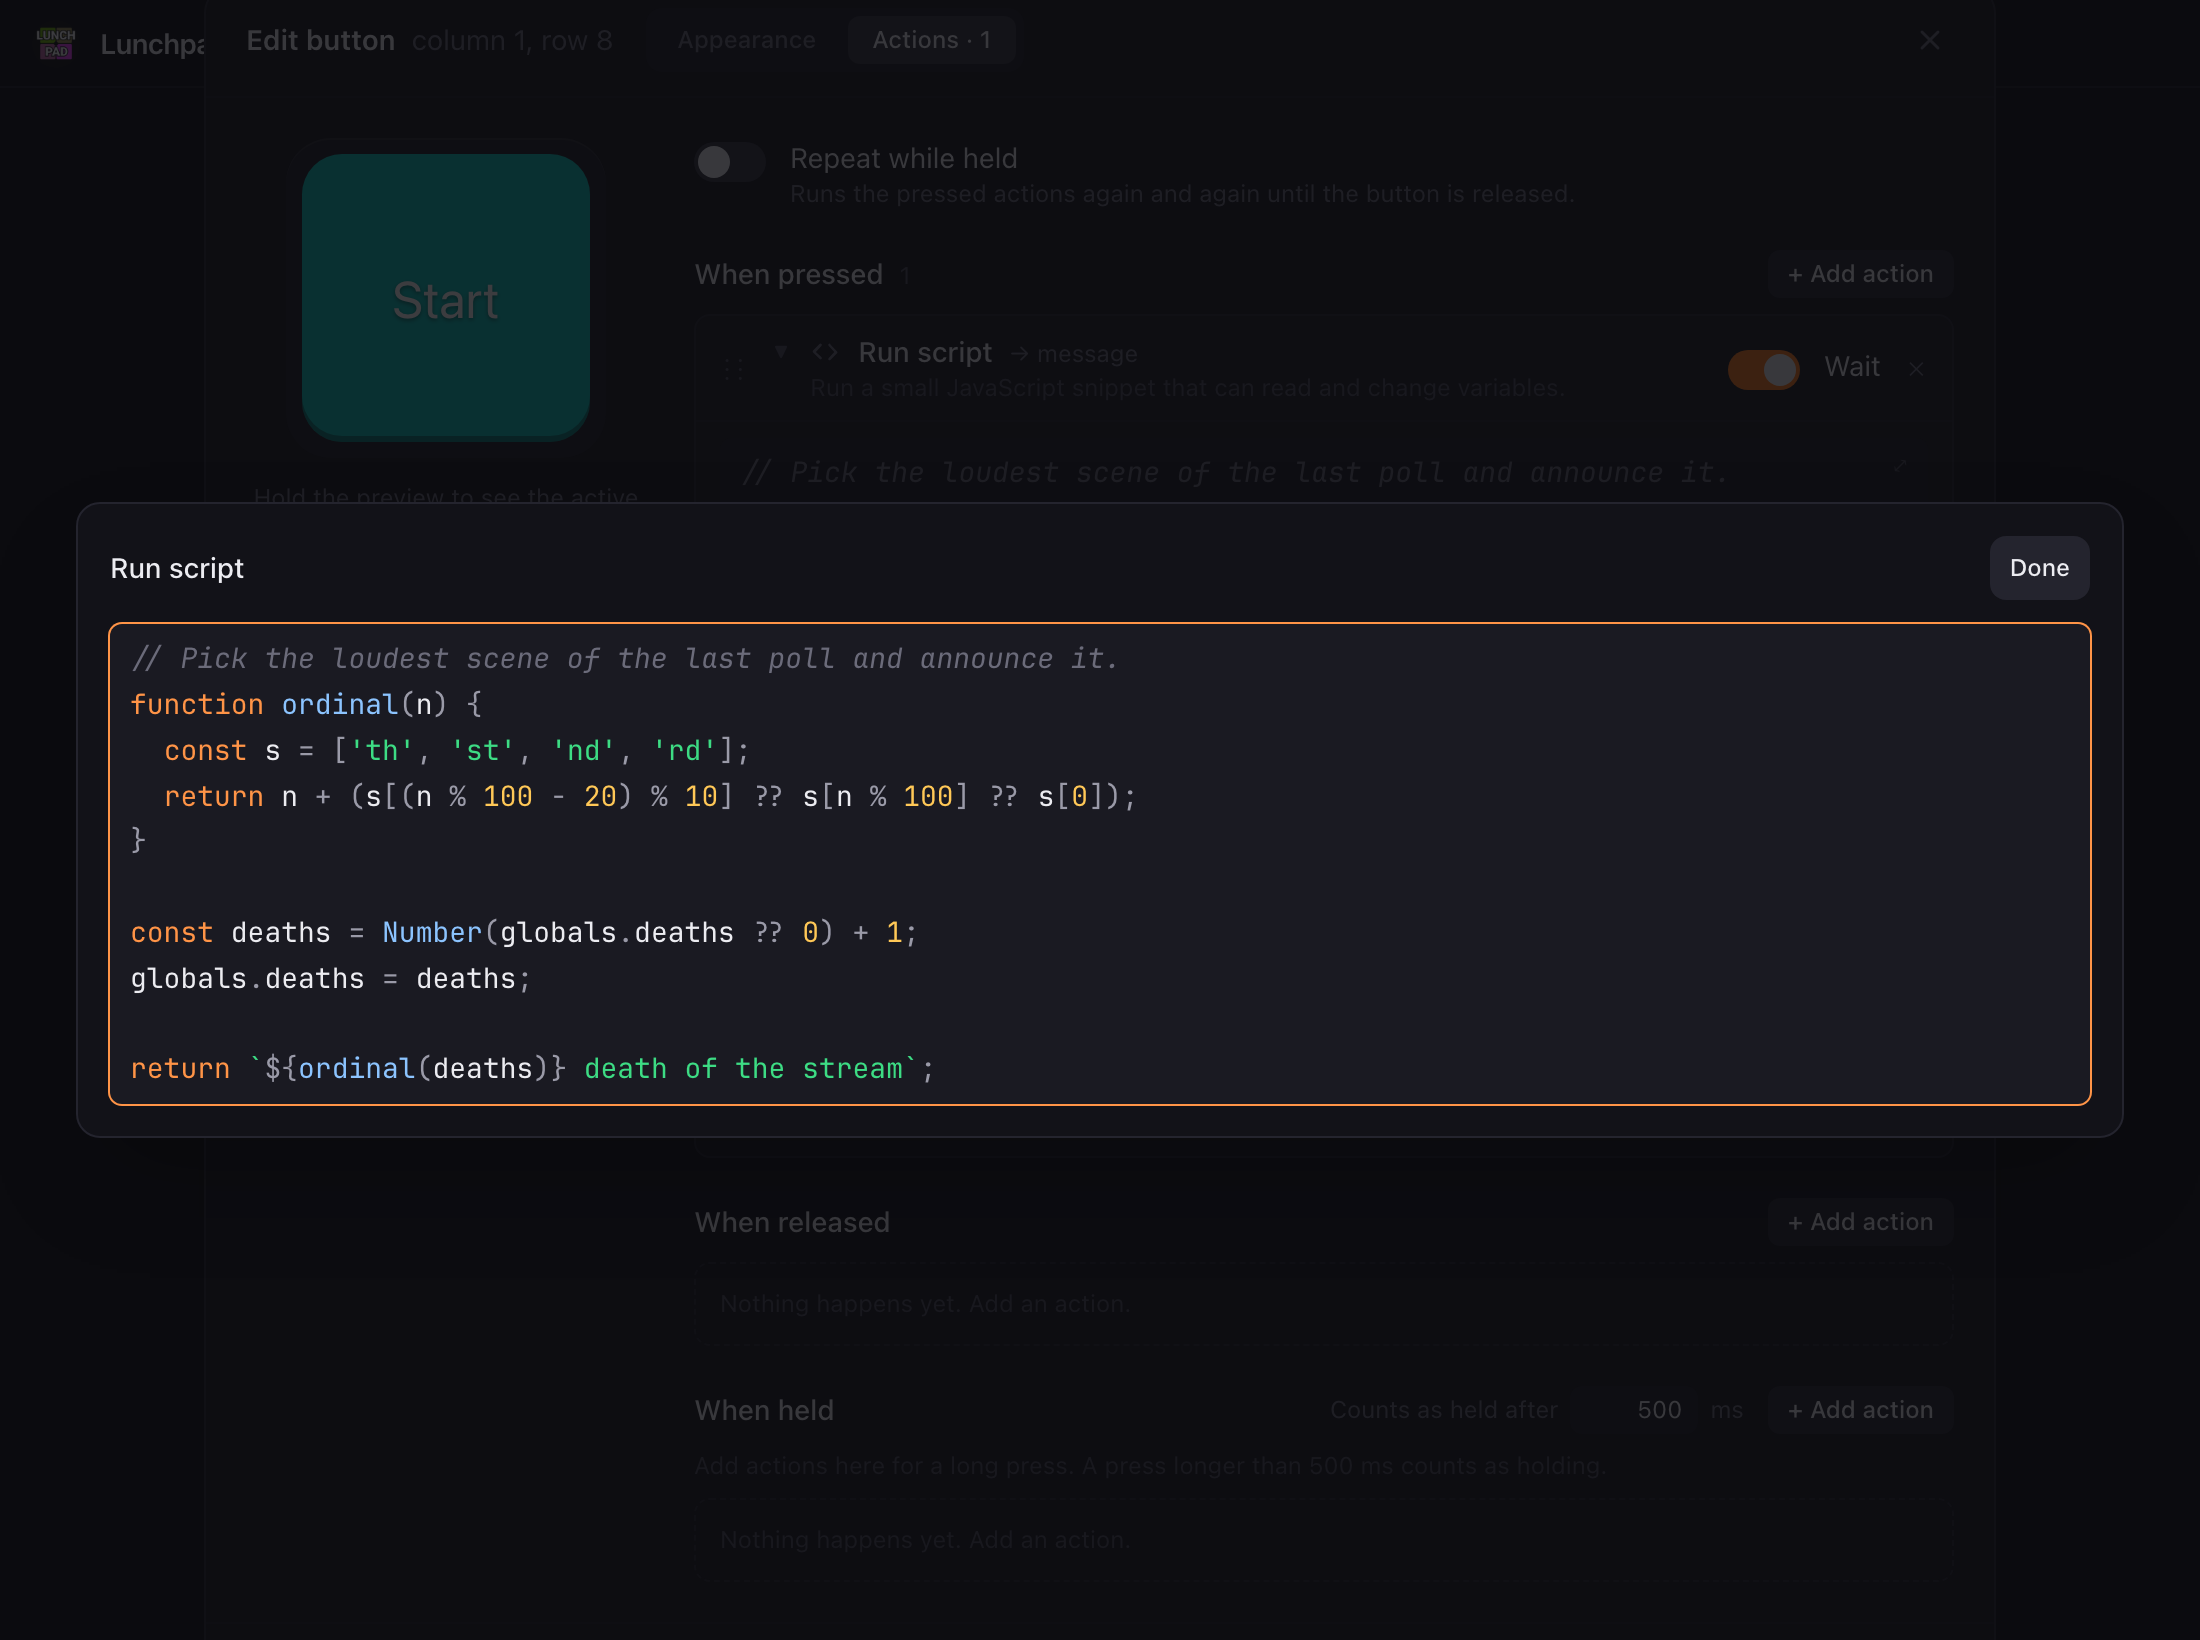
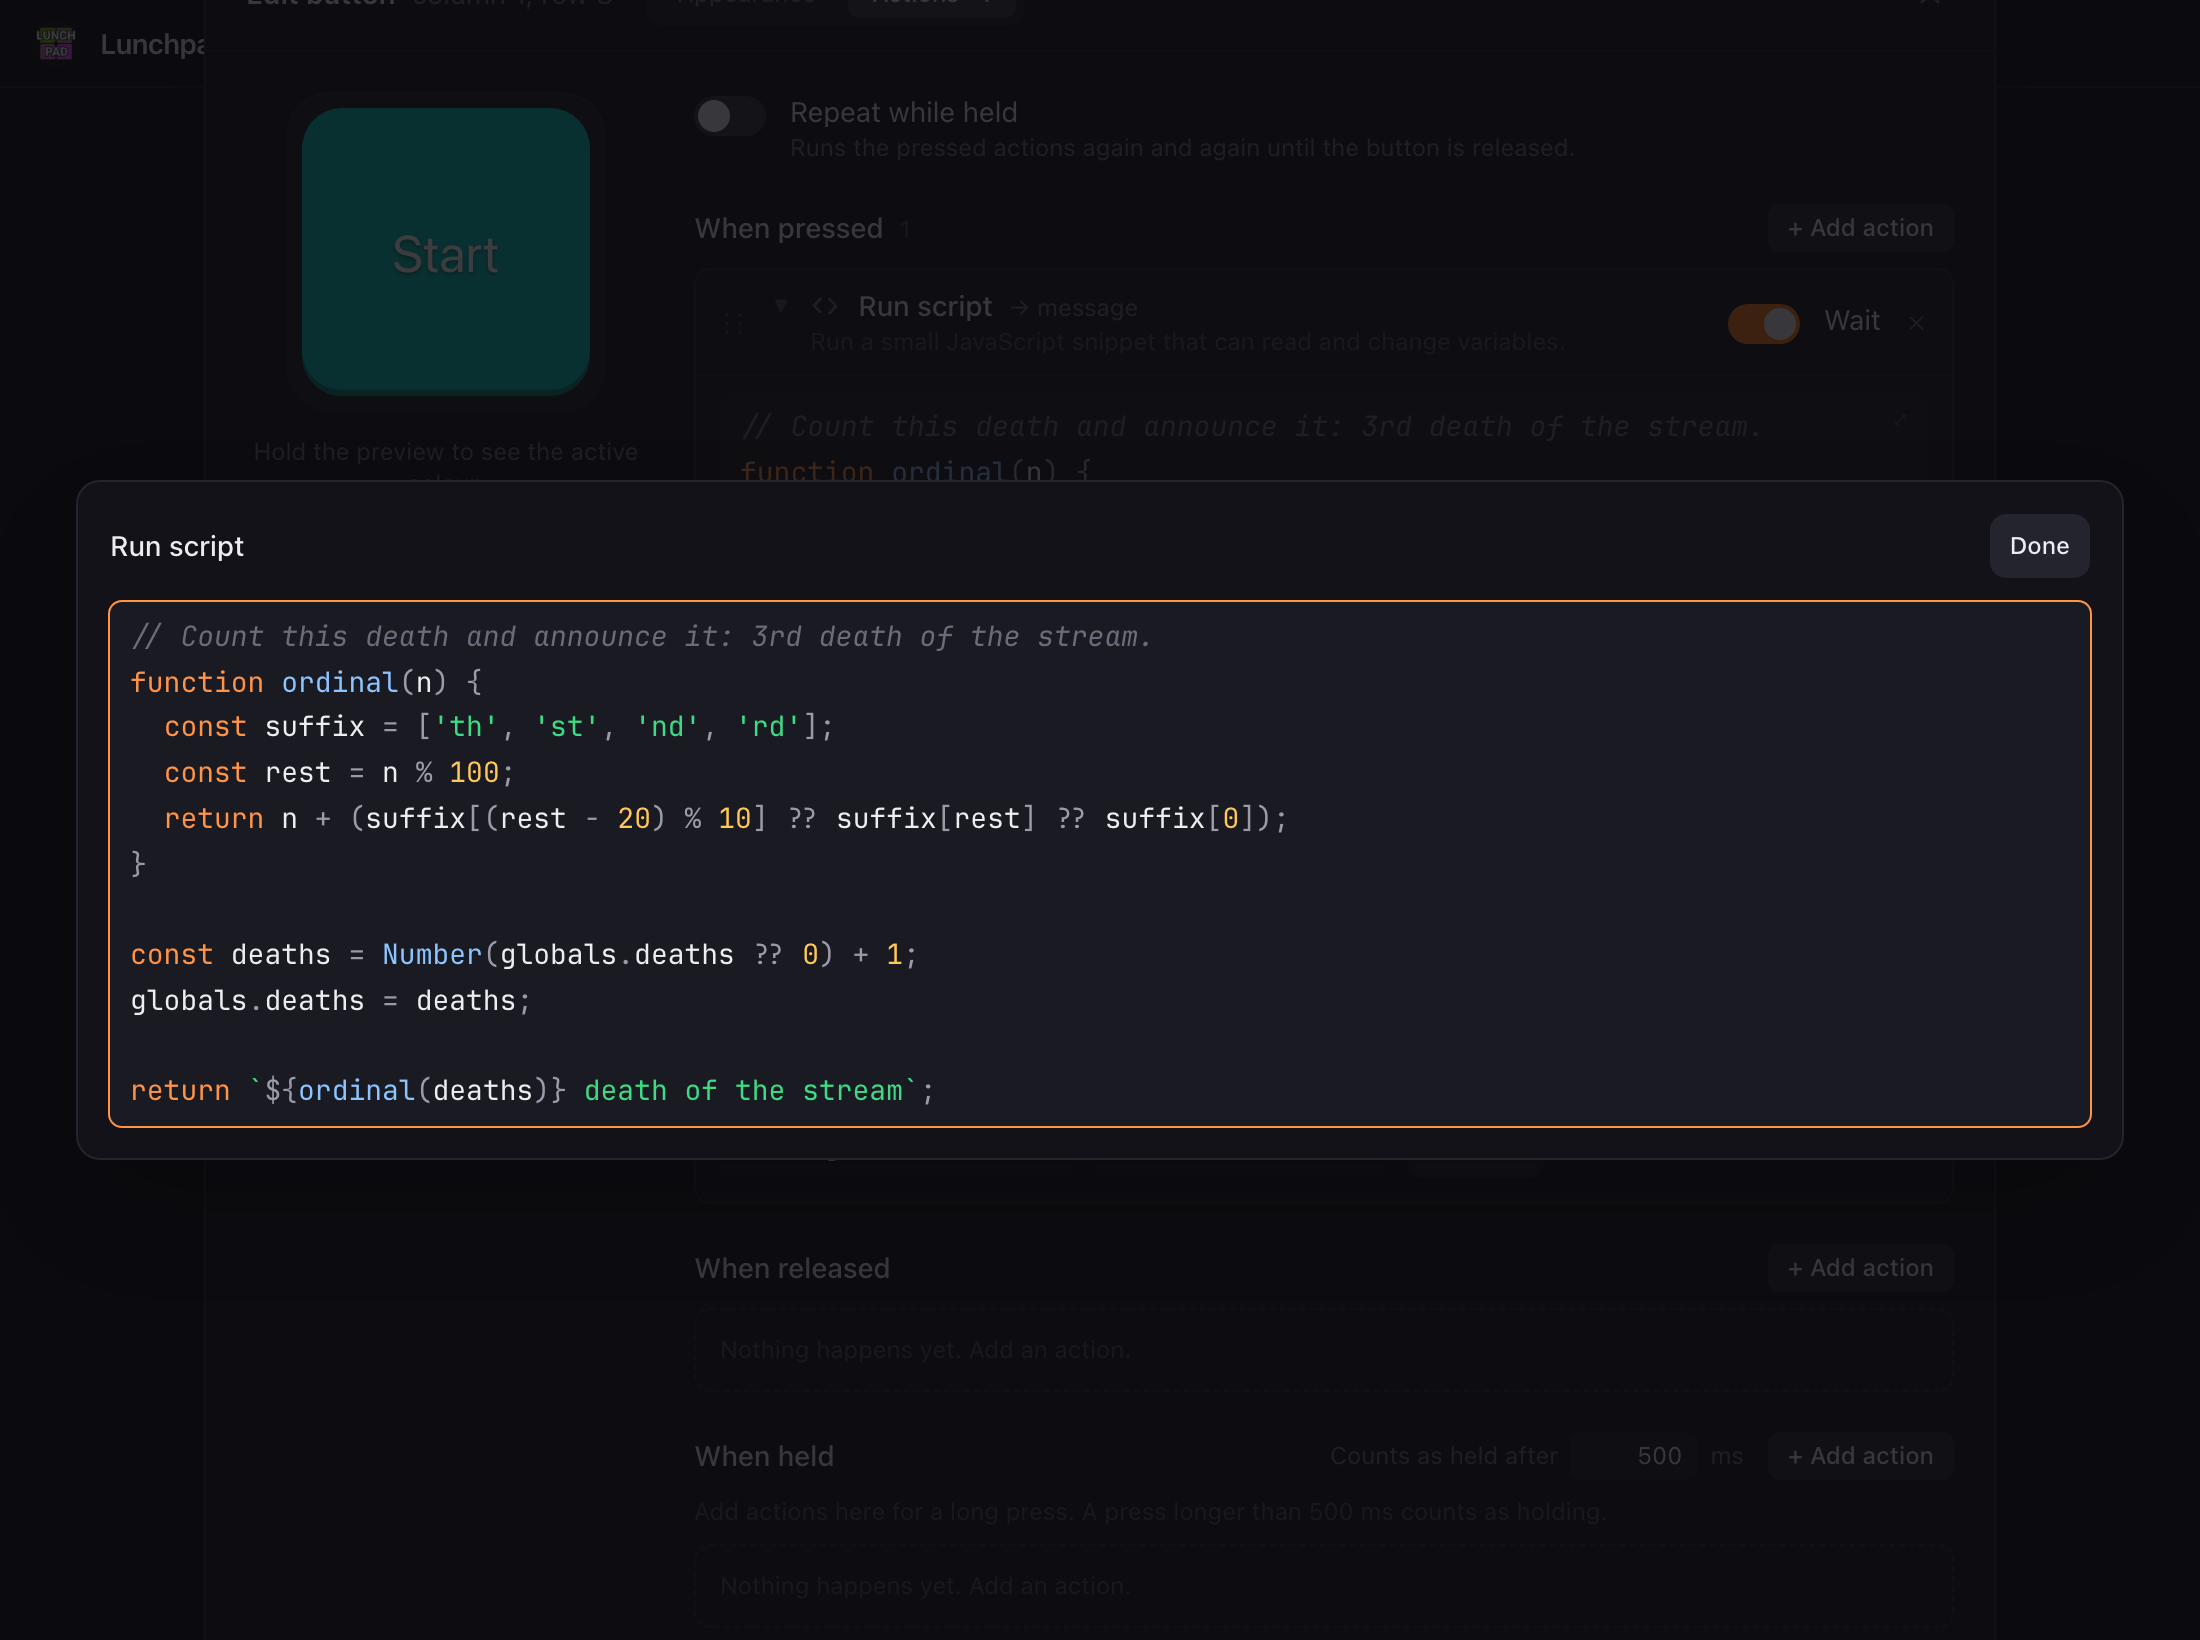
Make the script in the editor screenshot say what it does
The snippet carried a comment about picking a scene out of a poll over code that
counts deaths, which reads as nonsense on the Run script page. It now counts the
death it announces, and shows what the page explains: a helper that returns, and
a result that comes from the last line.

diff --git a/scripts/screenshots/scenarios/app.ts b/scripts/screenshots/scenarios/app.ts
@@ -209,7 +209,9 @@ export const appShots: Shot[] = [
         down: [
           act({
             type: "runScript",
-            code: "// Pick the loudest scene of the last poll and announce it.\nfunction ordinal(n) {\n  const s = ['th', 'st', 'nd', 'rd'];\n  return n + (s[(n % 100 - 20) % 10] ?? s[n % 100] ?? s[0]);\n}\n\nconst deaths = Number(globals.deaths ?? 0) + 1;\nglobals.deaths = deaths;\n\nreturn `${ordinal(deaths)} death of the stream`;",
+            // A helper that returns, and a last line that uses it: exactly what the page
+            // explains about where a script's result comes from.
+            code: "// Count this death and announce it: 3rd death of the stream.\nfunction ordinal(n) {\n  const suffix = ['th', 'st', 'nd', 'rd'];\n  const rest = n % 100;\n  return n + (suffix[(rest - 20) % 10] ?? suffix[rest] ?? suffix[0]);\n}\n\nconst deaths = Number(globals.deaths ?? 0) + 1;\nglobals.deaths = deaths;\n\nreturn `${ordinal(deaths)} death of the stream`;",
             saveTo: "message",
             saveScope: "local",
           }),
